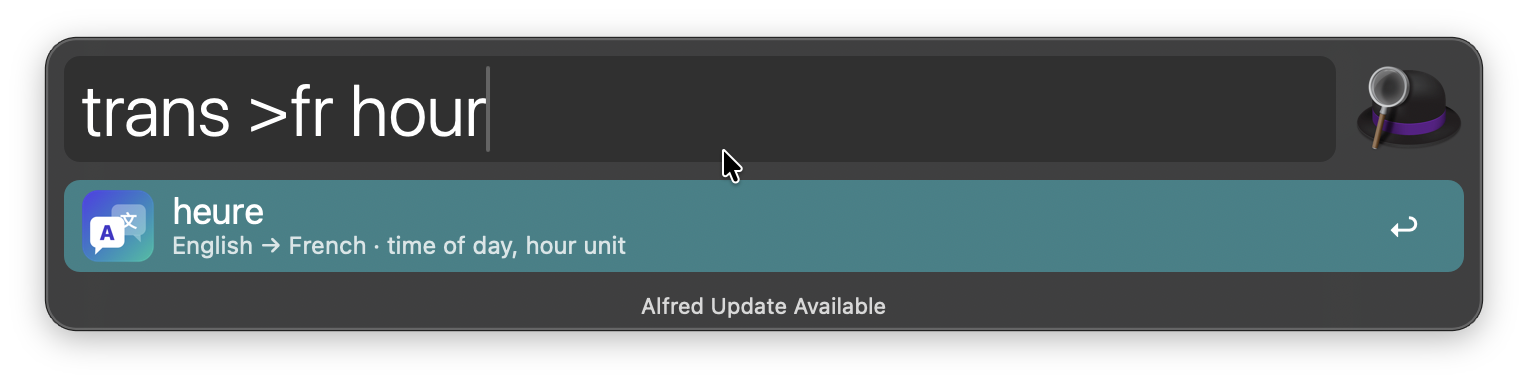
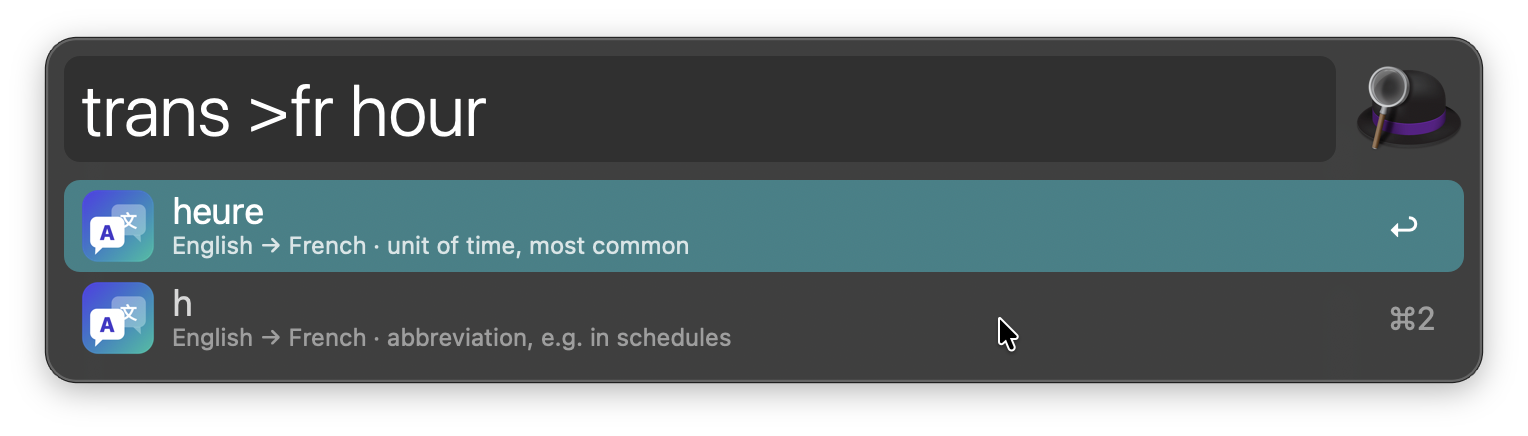
Update screenshots

diff --git a/README.md b/README.md
@@ -12,7 +12,7 @@ Install [Claude Code](https://claude.com/claude-code) and log in once by running
 
 Translate text via the `trans` keyword. Results appear as you type, after a short pause.
 
-![Translating a German word into English](images/usage.png)
+![Translating an English word into German, with several variants](images/usage.png)
 
 * <kbd>↩</kbd> Copy the translation
 * <kbd>⌘</kbd><kbd>↩</kbd> Paste the translation into the frontmost app
@@ -20,6 +20,8 @@ Translate text via the `trans` keyword. Results appear as you type, after a shor
 * <kbd>⌘</kbd><kbd>L</kbd> Show the translation in Large Type
 
 Text is translated into the target language from the Workflow’s Configuration. Text that is already in the target language is translated into the secondary language instead.
+
+![With German as the target language, German text is translated into English](images/secondary-language.png)
 
 To pick another target language, start the query with `>` and a language name or code, for example `trans >fr Good morning` or `trans >español Good morning`.
 
